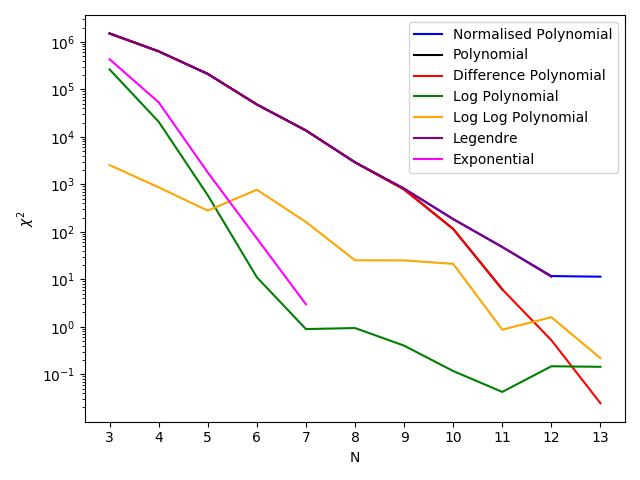
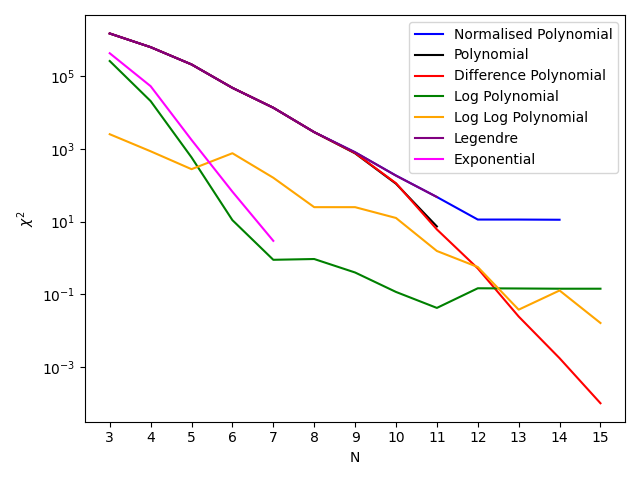
updated documentation

diff --git a/docs/source/simple_program.rst b/docs/source/simple_program.rst
@@ -3,6 +3,30 @@
 In order to run the ``maxsmooth`` software using the built
 in DCF models for a simple fit the user can follow the simple structure detailed here.
 
+An important point to make is that by default ``maxsmooth`` fits a
+Maximally Smooth Function or MSF to the data. An MSF, as stated in
+the introduction to the documentation, is a function which has
+derivatives of order :math:`{m \geq 2}` constrained so that they do not cross
+0. This means that they do not have inflection points or non smooth
+structure produced by higher order derivatives. More generally a DCF
+follows the constraint,
+
+.. math:
+
+    \frac{\delta^m y}{\delta x^m} \leq 0 ~~\mathrm{or}~~ \frac{\delta^m y}{\delta x^m} \geq 0 $
+
+for every constrained order :math:`{m}`. The set of :math:`{m}` can be any set of
+derivative orders as long as those derivatives exist for the function.
+
+This means we can use ``maxsmooth`` to produce different DCF
+models. MSFs are one of two special cases of DCF and we can also
+have a Completely Smooth Function (CSF) with orders :math:`{m \geq 1}`
+constrained. Alternatively we can have Partially Smooth Functions
+(PSF) which are much more general and can have arbitrary sets of
+derivatives constrained. We illustrate how this is implemented
+towards the end of this example but we begin with the default case
+fitting a MSF.
+
 The user should begin by importing the `smooth` class from `maxsmooth.DCF`.
 
 .. code::
@@ -16,7 +40,7 @@ The user should then import the data they wish to fit.
     import numpy as np
 
     x = np.load('Data/x.npy')
-    y = np.load('Data/y.npy')
+    y = np.load('Data/y.npy') + np.random.normal(0, 0.02, len(x))
 
 and define the polynomial orders they wish to fit.
 
@@ -32,13 +56,29 @@ or for example,
 
     N = 10
 
-`smooth` can be called like so,
+We can also plot the data to illustrate what is happening.
+Here the data is a scaled :math:`{x^{-2.5}}` power law and I have added gaussian
+noise in with a standard deviation of 0.02.
+
+.. code:: bash
+
+    import matplotlib.pyplot as plt
+
+    plt.plot(x, y)
+    plt.xlabel('x')
+    plt.ylabel('y')
+    plt.show()
+
+`smooth` can be called as is shown below. It takes the x and y data as standard
+inputs as well as the order of the fit. There are a set of keyword arguments
+also available that change the type of function being fitted and these are
+detailed in the documentation.
 
 .. code::
 
-    result = smooth(x, y, N, **kwargs)
+    result = smooth(x, y, N)
 
-where the kwargs are detailed below. It's resulting attributes can be accessed by writing
+and it's resulting attributes can be accessed by writing
 :code:`result.attribute_name`. For example printing the outputs is done like
 so,
 
@@ -50,3 +90,70 @@ so,
     print('Fitted y:\n', result.y_fit)
     print('Sign Combinations:\n', result.optimum_signs)
     print('Derivatives:\n', result.derivatives)
+
+    plt.plot(x, y - result.y_fit)
+    plt.xlabel('x', fontsize=12)
+    plt.ylabel(r'$\delta y$', fontsize=12)
+    plt.tight_layout()
+    plt.show()
+
+To fit the data with a CSF we can use the 'constraints' keyword
+argument in smooth(). 'constraints' sets the minimum constrained
+derivative for the function which for a CSF we want to be one.
+
+.. code:: bash
+
+    res = smooth(x, y, N, constraints=1)
+
+Note in the printed results the number of constrained derivatives has
+increased by 1 and the only derivative that is allowed to cross through 0
+(Zero Crossings Used?) is the the :math:`{0^{th}}` order i.e. the data.
+
+.. code:: bash
+
+    plt.plot(x, y - res.y_fit)
+    plt.xlabel('x', fontsize=12)
+    plt.ylabel('y', fontsize=12)
+    plt.tight_layout()
+    plt.show()
+
+A Partially Smooth Function can have derivatives constrained via :math:`{m \geq a}`
+where :math:`{a}` is
+any order above 2 or it can have a set of derivatives that are allowed to cross
+zero. For the first case we can once again use the 'constraints' keyword
+argument. For example we can constrain derivatives with orders :math:`{\geq 3}` which will
+allow the :math:`{1^{st}}` and :math:`{2^{nd}}` order derivatives to cross zero.
+This is useful when our
+data features an inflection point we want to model with our fit.
+
+.. code:: bash
+
+   res = smooth(x, y, N, constraints=3)
+
+   plt.plot(x, y - res.y_fit)
+   plt.xlabel('x', fontsize=12)
+   plt.ylabel('y', fontsize=12)
+   plt.tight_layout()
+   plt.show()
+
+To allow a particular set of derivatives to cross zero we use the
+'zero_crossings' keyword. In the example below we are lifting the constraints
+on the :math:`{3^{rd}}`, :math:`{4^{th}}` and :math:`{5^{th}}` order derivatives
+but our minimum constrained derivative is still set at the default 2. Therefore
+this PSF has derivatives of order :math:`{m = [2, 6, 7, 8, 9]}`
+constrained via the condition at the begining of this example code.
+
+.. code::
+
+   res = smooth(x, y, N, zero_crossings=[3, 4, 5])
+
+   plt.plot(x, y - res.y_fit)
+   plt.xlabel('x', fontsize=12)
+   plt.ylabel('y', fontsize=12)
+   plt.tight_layout()
+   plt.show()
+
+While PSFs can seem like an attractive way to improve the quality of fit they
+are less 'smooth' than a MSF or CSF and consequently they can introduce
+additional turning points in to your residuals obscuring any signals of
+intrest.

diff --git a/docs/source/param_plotter_example.rst b/docs/source/param_plotter_example.rst
@@ -1,7 +1,7 @@
 We can assess the parameter space around the optimum solution
 found using ``maxsmooth`` with the param_plotter() function.
 This can help us identify how well a problem can be solved using the
-sign sampling approach employed by ``maxsmooth`` or simply
+sign navigating approach employed by ``maxsmooth`` or simply
 be used to identify correlations between the foreground parameters.
 For more details on this see the ``maxsmooth`` paper.
 
@@ -23,10 +23,29 @@ function illustrated above.
 We have changed the order of the fit to 5 to illustrate that for
 order :math:`{N \leq 5}` and fits with derivatives :math:`{m \geq 2}` constrained
 the function will plot each region of the graph corresponding to
-different sign functions in a different colourmap. If the constraints are
+different sign combinations in a different colourmap. Recall that
+by default the function smooth() fits a maximally smooth function (MSF) with
+derivatives of order :math:`{m \geq 2}`. If the constraints are
 different or the order is greater than 5 then the viable regions will have
 a single colourmap. Invalid regions are plotted as black shaded colourmaps
 and the contour lines are contours of :math:`{\chi^2}`.
+
+Specifically, invalid regions violate the condition
+
+.. math::
+
+  \pm_m \frac{\delta^m y}{\delta x^m} \leq 0
+
+where :math:`{m}` represents the derivative order, :math:`{y}` is the dependent
+variable and :math:`{x}` is the independent variable. Violation of the
+condition means that one or more of the constrained derivatives crosses 0 in the
+band of interest. For an MSF, as mentioned, :math:`{m \geq 2}` and the sign :math:`{\pm_m}`
+applies to specific derivative orders. For this specific example there are
+3 constrained derivatives, :math:`{m = 2, 3, 4}` and consequently 3 signs to
+optimise for alongside the parameters :math:`{a_k}`. The coloured valid regions
+therefore correspond to a specific combination of :math:`{\pm_m}` for the problem.
+:math:`{\pm_m}` is also referred to as :math:`{\mathbf{s}}` in the theory
+section and the ``maxsmooth`` paper.
 
 We can import the function like so,
 

diff --git a/docs/source/best_basis.rst b/docs/source/best_basis.rst
@@ -20,13 +20,26 @@ To call the function we use,
 
 .. code::
 
-  basis_test(x, y, base_dir='examples/')
+  basis_test(x, y, base_dir='examples/', N=np.arange(3, 16, 1))
 
 The function only requires the data but we can provide it with a base directory,
-fit type and range of DCF orders to test. By default it uses the sign sampling
-algorithm and tests :math:`{N = 3 - 13}`. The resultant graph is saved in the
+fit type and range of DCF orders to test. By defualt it uses the sign navigating
+algorithm and tests :math:`{N = 3 - 13}`. Here we test the range
+:math:``{N = 3 - 15}``.
+The resultant graph is saved in the
 base directory and the example generated here is shown below.
 
 .. image:: https://github.com/htjb/maxsmooth/raw/master/docs/images/Basis_functions.png
   :width: 400
   :align: center
+
+The graph shows us which basis is the optimum for solving this problem from the
+built in library (that which can reach the minimum :math:``{\chi^2}``). If we
+were to go to higher N we would also find that the :math:``{\chi^2}`` value
+would stop decreasing in value. The value of N for which this occurs at is the
+optimum DCF order. (See the ``maxsmooth`` paper for a real world application
+of this concept.)
+
+We can also provide this function with additional arguments such as the
+fit type, minimum constrained derivative, directional exploration limits
+ect. (see the ``maxsmooth`` Functions section).

diff --git a/docs/source/theory.rst b/docs/source/theory.rst
@@ -1,7 +1,7 @@
 This section has been adapted from section 4 of the ``maxsmooth`` paper
 in order to explain how the algorithm works. What follows is a discussion of
 the fitting problem and the
-``maxsmooth`` algorithm. To restate concisely the problem being fitted we have
+``maxsmooth`` algorithm. To state concisely the problem being fitted we have
 
 .. math::
 
@@ -9,7 +9,13 @@ the fitting problem and the
         &\mathrm{s.t.}~~\mathbf{G(s)~a} \leq \mathbf{0}.
 
 where :math:`{\mathbf{s}}` are the ``maxsmooth`` signs corresponding to the
-signs on the derivatives.
+signs on the derivatives. :math:`{\mathbf{G}}` is a matrix of prefactors on the derivatives,
+:math:`{\mathbf{a}}` are the parameters we are optimising for and their
+product gives the derivatives we are constraining with each fit.
+:math:`{\mathbf{Q}}` is the dot product of the matrix of basis functions and
+its transpose and :math:`\mathbf{q}` is the negative of the transposed data,
+:math:`\mathbf{y}` dotted with the basis functions. For more details on this
+equation see the ``maxsmooth`` paper.
 A `problem' in this context is the combination of the data, order, basis
 function and constraints on the DCF.
 

diff --git a/docs/source/maxsmooth.rst b/docs/source/maxsmooth.rst
@@ -19,6 +19,14 @@ built in library for the problem being fitted, analysis of the :math:`{\chi^2}`
 distribution as a function of the discrete sign spaces and analysis of the
 parameter space surrounding the optimum results.
 
+The data used for all of this examples is available
+`here <https://github.com/htjb/maxsmooth/tree/master/example_codes/Data>`__.
+
+The example codes can be found
+`here <https://github.com/htjb/maxsmooth/tree/master/example_codes>`__ and
+corresponding Jupyter Notebooks are provided
+`here <>`__.
+
 Simple Example code
 ~~~~~~~~~~~~~~~~~~~
 .. include:: simple_program.rst

diff --git a/docs/source/CHANGELOG.rst b/docs/source/CHANGELOG.rst
@@ -13,3 +13,10 @@ Version 1.1.0
 - Extension of param_plotter() to allow for highlighting of central
   regions in each panel if required.
 - Inclusion of some theory into the documentation
+
+Version 1.2.0
+~~~~~~~~~~~~~
+
+- Minor bug fix in param_plotter()
+- Extension of the basis_test() function to allow users to compare different
+  types of DCF not just MSFs. 
